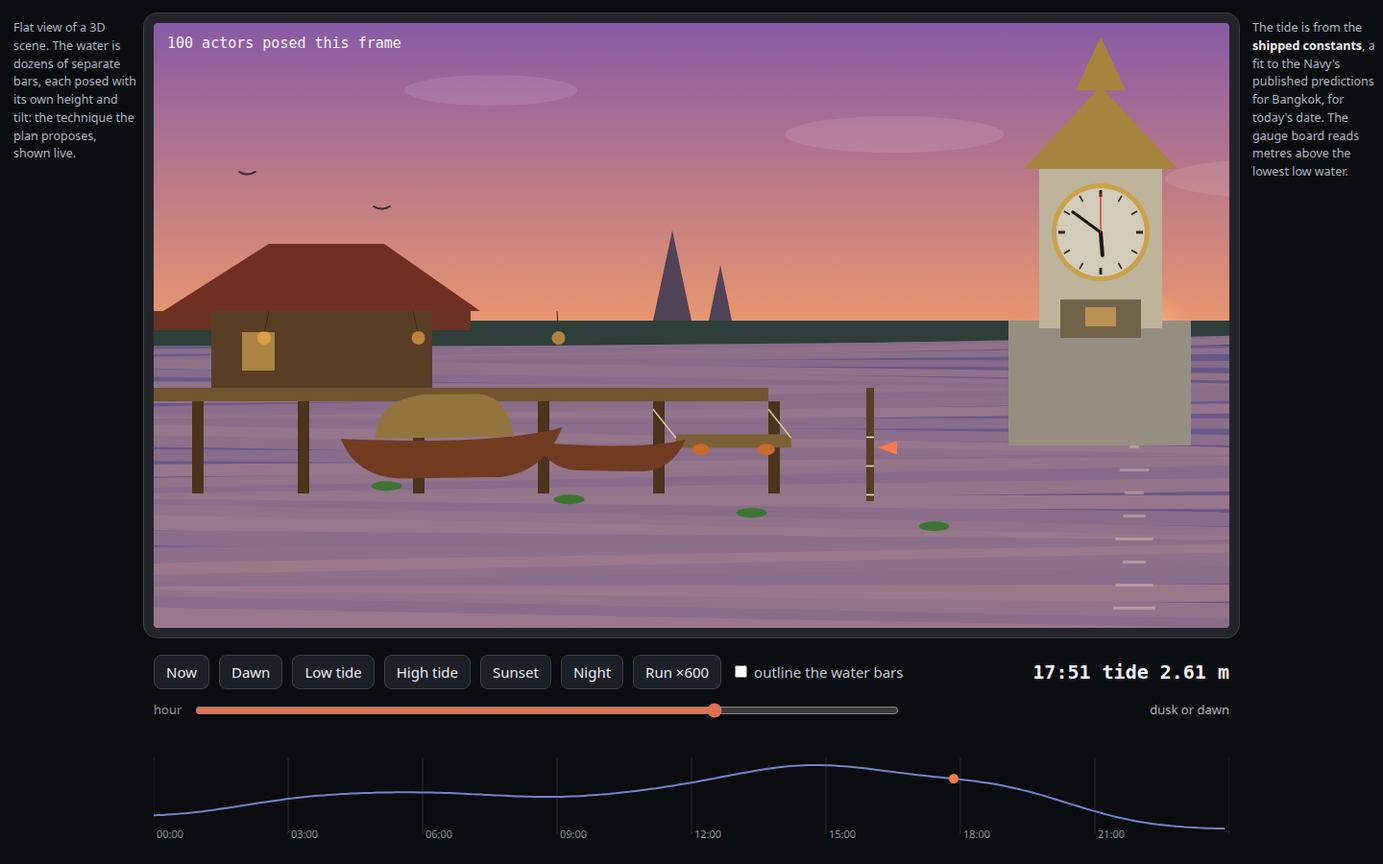
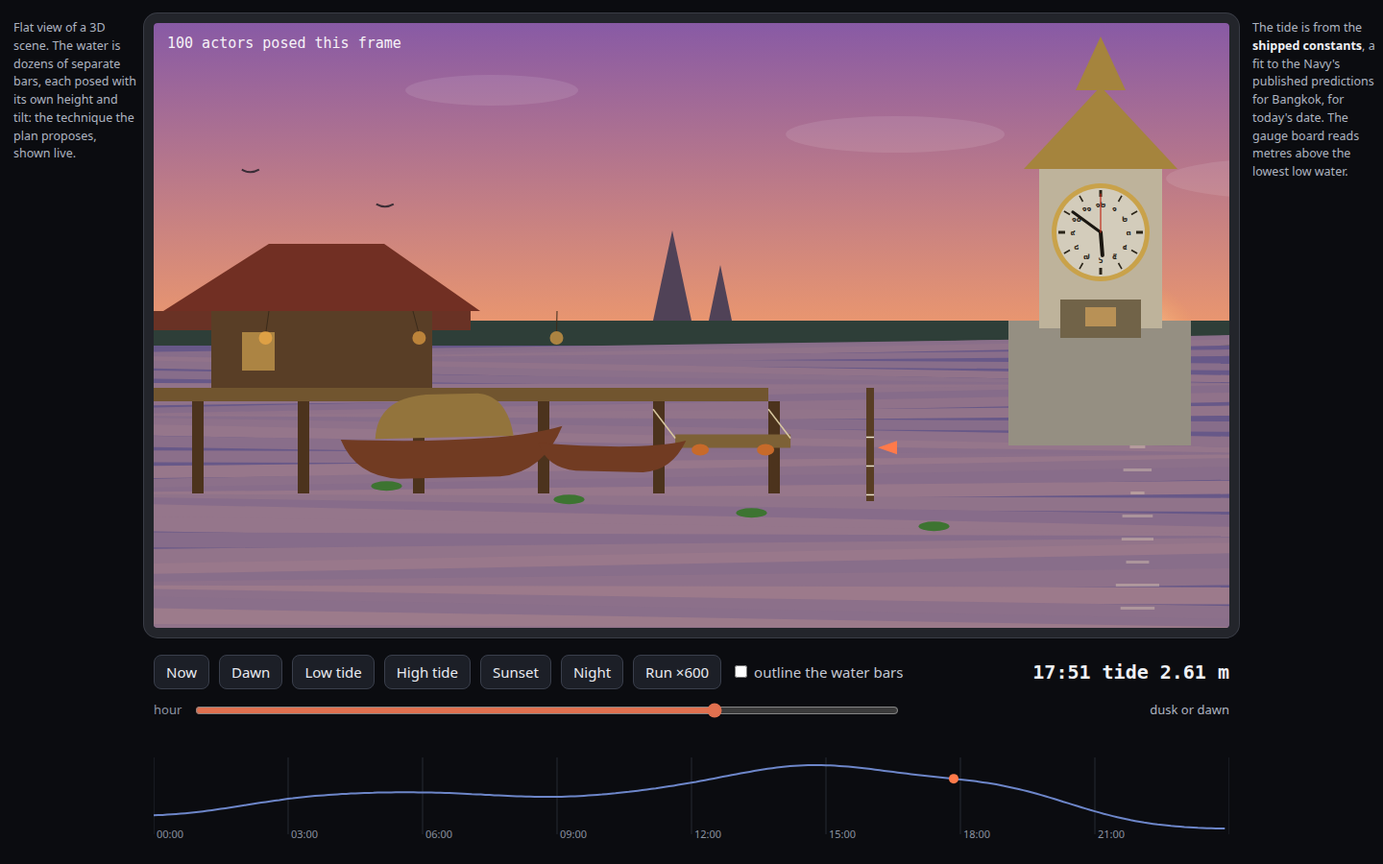
Tide Harbour plan approved: D1-D12 and Q1-Q8, with Thai dial numerals
Will: "accept all except answer to q2 is thai". Every recommendation stands except the
tower dial, which carries Thai numerals (D8). The harbour mockup now draws them and shows
the cost: at the harbour's scale the digits are small, so the plan lists two remedies in
order (a dial about 1.5x larger, or digits only at 12, 3, 6, 9 with ticks between) and keeps
Roman numerals as the fallback. Phase 2 first checks that a Thai font is in the Blender
container image. The questions section becomes a record of the answers.

Claude-Session: https://claude.ai/code/session_01YEenqQdpzaEWB9yHz5H9v3

diff --git a/docs/plans/2026-11-21-tide-harbour-clock/chooser.html b/docs/plans/2026-11-21-tide-harbour-clock/chooser.html
@@ -127,6 +127,8 @@ function renderScene(t, phase, o) {
   const cx = 986, cy = 218, R = 46;
   g += `<circle cx="${cx}" cy="${cy}" r="${R + 5}" fill="#c9a24a"/><circle cx="${cx}" cy="${cy}" r="${R}" fill="${mix('#4a463c', '#f6efdc', 1 - dark * .55)}"/>`; n += 2;
   for (let k = 0; k < 12; k++) { const a = k / 12 * TAU; g += `<line x1="${f1(cx + Math.sin(a) * (R - 9))}" y1="${f1(cy - Math.cos(a) * (R - 9))}" x2="${f1(cx + Math.sin(a) * (R - 2))}" y2="${f1(cy - Math.cos(a) * (R - 2))}" stroke="#2a2418" stroke-width="${k % 3 ? 1.6 : 3}"/>`; }
+  const THAI = ['๑๒', '๑', '๒', '๓', '๔', '๕', '๖', '๗', '๘', '๙', '๑๐', '๑๑'];
+  for (let k = 0; k < 12; k++) { const a = k / 12 * TAU, r = R - 17; g += `<text x="${f1(cx + Math.sin(a) * r)}" y="${f1(cy - Math.cos(a) * r)}" font-size="9" font-weight="700" text-anchor="middle" dominant-baseline="central" fill="#2a2418" font-family="Noto Sans Thai, Noto Serif Thai, sans-serif">${THAI[k]}</text>`; }
   const hh = (t % 12) / 12 * TAU, mm = ((t * 60) % 60) / 60 * TAU, ss = ((t * 3600) % 60) / 60 * TAU;
   const hand = (a, len, w, col) => `<line x1="${cx}" y1="${cy}" x2="${f1(cx + Math.sin(a) * len)}" y2="${f1(cy - Math.cos(a) * len)}" stroke="${col}" stroke-width="${w}" stroke-linecap="round"/>`;
   g += hand(hh, 24, 4, '#1a1610') + hand(mm, 36, 3, '#1a1610') + hand(ss, 40, 1.2, '#c02a1a'); n += 3;

diff --git a/docs/plans/2026-11-21-tide-harbour-clock/harbour.html b/docs/plans/2026-11-21-tide-harbour-clock/harbour.html
@@ -127,6 +127,8 @@ function renderScene(t, phase, o) {
   const cx = 986, cy = 218, R = 46;
   g += `<circle cx="${cx}" cy="${cy}" r="${R + 5}" fill="#c9a24a"/><circle cx="${cx}" cy="${cy}" r="${R}" fill="${mix('#4a463c', '#f6efdc', 1 - dark * .55)}"/>`; n += 2;
   for (let k = 0; k < 12; k++) { const a = k / 12 * TAU; g += `<line x1="${f1(cx + Math.sin(a) * (R - 9))}" y1="${f1(cy - Math.cos(a) * (R - 9))}" x2="${f1(cx + Math.sin(a) * (R - 2))}" y2="${f1(cy - Math.cos(a) * (R - 2))}" stroke="#2a2418" stroke-width="${k % 3 ? 1.6 : 3}"/>`; }
+  const THAI = ['๑๒', '๑', '๒', '๓', '๔', '๕', '๖', '๗', '๘', '๙', '๑๐', '๑๑'];
+  for (let k = 0; k < 12; k++) { const a = k / 12 * TAU, r = R - 17; g += `<text x="${f1(cx + Math.sin(a) * r)}" y="${f1(cy - Math.cos(a) * r)}" font-size="9" font-weight="700" text-anchor="middle" dominant-baseline="central" fill="#2a2418" font-family="Noto Sans Thai, Noto Serif Thai, sans-serif">${THAI[k]}</text>`; }
   const hh = (t % 12) / 12 * TAU, mm = ((t * 60) % 60) / 60 * TAU, ss = ((t * 3600) % 60) / 60 * TAU;
   const hand = (a, len, w, col) => `<line x1="${cx}" y1="${cy}" x2="${f1(cx + Math.sin(a) * len)}" y2="${f1(cy - Math.cos(a) * len)}" stroke="${col}" stroke-width="${w}" stroke-linecap="round"/>`;
   g += hand(hh, 24, 4, '#1a1610') + hand(mm, 36, 3, '#1a1610') + hand(ss, 40, 1.2, '#c02a1a'); n += 3;

diff --git a/docs/plans/2026-11-21-tide-harbour-clock/moments.html b/docs/plans/2026-11-21-tide-harbour-clock/moments.html
@@ -127,6 +127,8 @@ function renderScene(t, phase, o) {
   const cx = 986, cy = 218, R = 46;
   g += `<circle cx="${cx}" cy="${cy}" r="${R + 5}" fill="#c9a24a"/><circle cx="${cx}" cy="${cy}" r="${R}" fill="${mix('#4a463c', '#f6efdc', 1 - dark * .55)}"/>`; n += 2;
   for (let k = 0; k < 12; k++) { const a = k / 12 * TAU; g += `<line x1="${f1(cx + Math.sin(a) * (R - 9))}" y1="${f1(cy - Math.cos(a) * (R - 9))}" x2="${f1(cx + Math.sin(a) * (R - 2))}" y2="${f1(cy - Math.cos(a) * (R - 2))}" stroke="#2a2418" stroke-width="${k % 3 ? 1.6 : 3}"/>`; }
+  const THAI = ['๑๒', '๑', '๒', '๓', '๔', '๕', '๖', '๗', '๘', '๙', '๑๐', '๑๑'];
+  for (let k = 0; k < 12; k++) { const a = k / 12 * TAU, r = R - 17; g += `<text x="${f1(cx + Math.sin(a) * r)}" y="${f1(cy - Math.cos(a) * r)}" font-size="9" font-weight="700" text-anchor="middle" dominant-baseline="central" fill="#2a2418" font-family="Noto Sans Thai, Noto Serif Thai, sans-serif">${THAI[k]}</text>`; }
   const hh = (t % 12) / 12 * TAU, mm = ((t * 60) % 60) / 60 * TAU, ss = ((t * 3600) % 60) / 60 * TAU;
   const hand = (a, len, w, col) => `<line x1="${cx}" y1="${cy}" x2="${f1(cx + Math.sin(a) * len)}" y2="${f1(cy - Math.cos(a) * len)}" stroke="${col}" stroke-width="${w}" stroke-linecap="round"/>`;
   g += hand(hh, 24, 4, '#1a1610') + hand(mm, 36, 3, '#1a1610') + hand(ss, 40, 1.2, '#c02a1a'); n += 3;

diff --git a/docs/plans/2026-11-21-tide-harbour-clock/poster.html b/docs/plans/2026-11-21-tide-harbour-clock/poster.html
@@ -127,6 +127,8 @@ function renderScene(t, phase, o) {
   const cx = 986, cy = 218, R = 46;
   g += `<circle cx="${cx}" cy="${cy}" r="${R + 5}" fill="#c9a24a"/><circle cx="${cx}" cy="${cy}" r="${R}" fill="${mix('#4a463c', '#f6efdc', 1 - dark * .55)}"/>`; n += 2;
   for (let k = 0; k < 12; k++) { const a = k / 12 * TAU; g += `<line x1="${f1(cx + Math.sin(a) * (R - 9))}" y1="${f1(cy - Math.cos(a) * (R - 9))}" x2="${f1(cx + Math.sin(a) * (R - 2))}" y2="${f1(cy - Math.cos(a) * (R - 2))}" stroke="#2a2418" stroke-width="${k % 3 ? 1.6 : 3}"/>`; }
+  const THAI = ['๑๒', '๑', '๒', '๓', '๔', '๕', '๖', '๗', '๘', '๙', '๑๐', '๑๑'];
+  for (let k = 0; k < 12; k++) { const a = k / 12 * TAU, r = R - 17; g += `<text x="${f1(cx + Math.sin(a) * r)}" y="${f1(cy - Math.cos(a) * r)}" font-size="9" font-weight="700" text-anchor="middle" dominant-baseline="central" fill="#2a2418" font-family="Noto Sans Thai, Noto Serif Thai, sans-serif">${THAI[k]}</text>`; }
   const hh = (t % 12) / 12 * TAU, mm = ((t * 60) % 60) / 60 * TAU, ss = ((t * 3600) % 60) / 60 * TAU;
   const hand = (a, len, w, col) => `<line x1="${cx}" y1="${cy}" x2="${f1(cx + Math.sin(a) * len)}" y2="${f1(cy - Math.cos(a) * len)}" stroke="${col}" stroke-width="${w}" stroke-linecap="round"/>`;
   g += hand(hh, 24, 4, '#1a1610') + hand(mm, 36, 3, '#1a1610') + hand(ss, 40, 1.2, '#c02a1a'); n += 3;

diff --git a/docs/plans/2026-11-21-tide-harbour-clock/build_mockups.py b/docs/plans/2026-11-21-tide-harbour-clock/build_mockups.py
@@ -155,6 +155,8 @@ function renderScene(t, phase, o) {
   const cx = 986, cy = 218, R = 46;
   g += `<circle cx="${cx}" cy="${cy}" r="${R + 5}" fill="#c9a24a"/><circle cx="${cx}" cy="${cy}" r="${R}" fill="${mix('#4a463c', '#f6efdc', 1 - dark * .55)}"/>`; n += 2;
   for (let k = 0; k < 12; k++) { const a = k / 12 * TAU; g += `<line x1="${f1(cx + Math.sin(a) * (R - 9))}" y1="${f1(cy - Math.cos(a) * (R - 9))}" x2="${f1(cx + Math.sin(a) * (R - 2))}" y2="${f1(cy - Math.cos(a) * (R - 2))}" stroke="#2a2418" stroke-width="${k % 3 ? 1.6 : 3}"/>`; }
+  const THAI = ['๑๒', '๑', '๒', '๓', '๔', '๕', '๖', '๗', '๘', '๙', '๑๐', '๑๑'];
+  for (let k = 0; k < 12; k++) { const a = k / 12 * TAU, r = R - 17; g += `<text x="${f1(cx + Math.sin(a) * r)}" y="${f1(cy - Math.cos(a) * r)}" font-size="9" font-weight="700" text-anchor="middle" dominant-baseline="central" fill="#2a2418" font-family="Noto Sans Thai, Noto Serif Thai, sans-serif">${THAI[k]}</text>`; }
   const hh = (t % 12) / 12 * TAU, mm = ((t * 60) % 60) / 60 * TAU, ss = ((t * 3600) % 60) / 60 * TAU;
   const hand = (a, len, w, col) => `<line x1="${cx}" y1="${cy}" x2="${f1(cx + Math.sin(a) * len)}" y2="${f1(cy - Math.cos(a) * len)}" stroke="${col}" stroke-width="${w}" stroke-linecap="round"/>`;
   g += hand(hh, 24, 4, '#1a1610') + hand(mm, 36, 3, '#1a1610') + hand(ss, 40, 1.2, '#c02a1a'); n += 3;

diff --git a/docs/plans/2026-11-21-tide-harbour-clock.md b/docs/plans/2026-11-21-tide-harbour-clock.md
@@ -1,6 +1,6 @@
 # Tide Harbour: the second 3D clock, and the clocks bundle that holds it
 
-**Status: plan for review, 2026‑11‑21.** The level and the bundle are not built. Done so far: the one engine addition, E1 (a date mailbox), is approved and built ([Phase 1 record](#phase-1-record-e1-built)); the Bangkok tide is fitted to the Navy's published predictions and validated on an unseen year ([Phase 0 record](#phase-0-record-the-tide), [research document](../reference/chao-phraya-tide-research.md)). Next: the A3 poster ([D11](#decisions), Phase P), which needs only that research, and the Phase 0 spikes on cast1, which need your answers to [the questions below](#questions-for-will). **Runtime control of lights is deliberately not part of this plan** (Will, 2026‑11‑21: "more likely the task is to add control of lights from runtime. today, put it on TODO, and don't use as part of the screensaver implementation for now"); it is its own TODO item.
+**Status: plan for review, 2026‑11‑21.** The level and the bundle are not built. Done so far: the one engine addition, E1 (a date mailbox), is approved and built ([Phase 1 record](#phase-1-record-e1-built)); the Bangkok tide is fitted to the Navy's published predictions and validated on an unseen year ([Phase 0 record](#phase-0-record-the-tide), [research document](../reference/chao-phraya-tide-research.md)). **Approved: D1 to D12 and the answers to Q1 to Q8 at my recommendations, except Q2, which Will answered Thai: the dial uses Thai numerals** (Will, 2026‑11‑21: "accept all except answer to q2 is thai"). Next: the A3 poster (Phase P), and the Phase 0 spikes on cast1. **Runtime control of lights is deliberately not part of this plan** (Will, 2026‑11‑21: "more likely the task is to add control of lights from runtime. today, put it on TODO, and don't use as part of the screensaver implementation for now"); it is its own TODO item.
 
 ## Context
 
@@ -46,29 +46,28 @@ Recommendations are in the third column. Nothing is decided until Will answers.
 | D5 | How the day turns to night | **No engine change.** A tall gradient mesh for the sky that slides past the camera; glow actors for lamps and windows, moved in front of the dark glass at dusk; and the water, boats and buildings drawn in a few keyed looks (day, dusk, night) cross-faded by moving the lit set forward. Phase 0 shows how well this holds and records the gaps | Runtime light control (a script-writable light colour): would dim everything with one write, but it is an engine feature in its own right and is **deferred to a TODO item, not used here**. Bake one fixed sunset: cheap, but then the look says nothing about the time |
 | D6 | The tide itself | **Settled by the research: fitted harmonic constants for Bangkok**, summed in Forth from the date. 64 constituents, median error 4 to 5 cm on an unseen year ([tide_constants.json](../../wflevels/tide_harbour/tide_constants.json)). The department publishes a new table each year, so `task tide-refit` repeats the fit (the years and the file addresses in `tide_fit/` are edited by hand first); the scene needs no nodal correction for the next year (3.7 cm against 3.3 cm) | A synthetic curve (no longer needed); a third-party table (the department's own tables are public and primary) |
 | D7 | Frame-rate gate | **At least 30 FPS** on cast1, Release, median over 120 s, the same gate Minute Machine used. Actor budget **150 rigid actors**, measured in Phase 0 on boxes first | A higher gate: the water bars are the likely cost, so measure first |
-| D8 | The dial | **Roman numerals**, as in the concept art: legible from across a room. Thai numerals ๑–๑๒ are a later variant | Thai numerals now: more local, harder to read at a glance |
+| D8 | The dial | **Thai numerals ๑ to ๑๒** (Will's answer to Q2), as a Bangkok tower would carry. The cost is legibility across a room, so the digits are drawn large and heavy, and the tower's dial is checked at TV distance in Phase 2. The [harbour mockup](2026-11-21-tide-harbour-clock/harbour.html) shows the problem at its scale: all twelve are small. Two remedies, in order: draw the dial about 1.5 times larger than in the concept art, or carry digits only at ๑๒, ๓, ๖ and ๙ with plain ticks between; if both fail, the concept art's Roman numerals are the fallback | Roman numerals, as in the concept art: more legible, less local |
 | D9 | Art style | **Low-poly, flat colour, a few small textures** (roof tile, wood, dial face), built in Blender in the container. Reads as the concept art at a distance and fits the VRAM page | Painterly textures like the concept art: much heavier on the 2048 × 2048 page |
 | D10 | Burn-in | **The camera drifts slowly all the time**, as Minute Machine's does; the water, sky and clouds always move, so no pixel sits still | A static camera: the tower dial would burn in |
 | D11 | An A3 poster about the tides and the calculation | **Yes, portrait A3 (297 × 420 mm), on the repository's poster pipeline** ([seahorse poster](../reference/seahorse-biomechanics-poster/README.md)): the [research document](../reference/chao-phraya-tide-research.md) first, then `make_poster.py` and `export_poster.py` (PDF, 300 DPI PNG, `layout-review.json`) and a pytest guard. Every claim wears a chip (**verified**, **other source**, **ours (measured)**); the build refuses an unconfirmed claim. See [the poster](#the-poster) | A figure in the plan only: no printable object, and the research would stay buried here |
 | D12 | Sun and moon | **No tables, and no claim about the moon.** The sun's rise and set come from a closed-form formula (the sun's declination and the equation of time, for Bangkok's latitude and longitude and the date), a few lines of Forth using the new trig words, and checked in Phase 2 against five published sunrise and sunset times. The moon is only a disc on an arc: its phase and position are **not** claimed, in the scene or on the poster. Will asked (2026‑11‑21): "should we??" about researching sunrise, sunset and moon tables; the answer was no | Tables for every date (a lot of data for a look nobody can check); a fixed 06:00 and 18:00 (seasonal drift is a few tens of minutes, which would pass, but the formula is as cheap and is right); the real moon (phase and position are a project of their own, and the plan's moon-phase stretch is already out of scope) |
 
-## Questions for Will
+## Questions for Will: answered
 
-Nothing is decided until Will answers. **No engine permission is pending:** E1 is approved and built, and light control is deferred. Everything below is a choice, with my recommendation first. "Accept all" is a complete answer.
+**Answered 2026‑11‑21** (Will, 2026‑11‑21: "accept all except answer to q2 is thai"). Every recommendation was accepted except Q2. No engine permission is pending: E1 is approved and built, and light control is deferred.
 
-| # | Question | Recommendation | What it blocks |
-|---|---|---|---|
-| Q1 | **Accept D1 to D12 as written?** Or name the ones to change. | Accept all. | Phase 0 spikes, then everything |
-| Q2 | **Dial numerals** (D8): Roman, as in the concept art, or Thai numerals ๑ to ๑๒ for a Bangkok scene? | Roman: legible across a room. Thai numerals as a later variant. | The tower dial's texture, Phase 2 |
-| Q3 | **Art style** (D9): low-poly flat colour with a few small textures, or painterly textures like the concept art? | Low-poly: reads as the concept art at a distance and fits the 2048 × 2048 texture page. The painterly version is much heavier. | The Blender build, Phase 2 |
-| Q4 | **Retire the Minute Machine app** (D2): remove the `minutemachine` flavor and uninstall its package from cast1, now that the `clocks` app holds it as level 0? | Yes, in the same change. | Phase 3 |
-| Q5 | **Poster language** (D11): English only, or also a Thai edition? | English only for now; a Thai edition is its own piece of work. | The poster's text |
-| Q6 | **How big is the tide on screen?** The real range is about 2.8 m between extremes of the year, and a typical day swings about 1.65 m. Show it true to scale against the pier and the gauge board, or exaggerate it so it is easy to see from a sofa? | True to scale: the gauge board then reads real numbers, and a 1.65 m swing is already visible. | The water, boats and ropes, Phase 2 |
-| Q7 | **A TV outside Thailand.** Show a Thai day at the viewer's own clock time (self-consistent, but not the real tide in Bangkok at that instant), or the real tide in Bangkok now with a dial that may disagree with the sky? | The first: device time everywhere, as if Thai. You are in Bangkok, so it makes no difference today. | Phase 2 |
-| Q8 | **Attribution for the tide.** The constants are our fit to the Navy's published predictions; no terms of use were found on its pages, and the poster credits the department. Is that enough, or should the department be asked? | Enough, with credit. | Printing the poster |
+| # | Question | Answer |
+|---|---|---|
+| Q1 | Accept D1 to D12 as written? | ~~Accept all.~~ **Accepted**, with D8 changed by Q2. |
+| Q2 | Dial numerals (D8)? | **Thai numerals ๑ to ๑๒** (not the recommended Roman). |
+| Q3 | Art style (D9)? | ~~Low-poly flat colour with a few small textures.~~ **Accepted.** |
+| Q4 | Retire the Minute Machine app and uninstall its package from cast1? | ~~Yes, in the same change.~~ **Accepted.** |
+| Q5 | Poster language? | ~~English only for now.~~ **Accepted.** |
+| Q6 | Tide size on screen? | ~~True to scale against the pier and the gauge board.~~ **Accepted.** |
+| Q7 | A TV outside Thailand? | ~~Device time everywhere, as if Thai.~~ **Accepted.** |
+| Q8 | Attribution for the tide? | ~~Credit the department; no further step.~~ **Accepted.** |
 
-Optional, not blocking: which of the other 48 ideas comes after Tide Harbour. The engine's level menu scrolls (six rows at a time), so the bundle can hold many.
-
+Optional, not blocking: which of the other 48 ideas comes after Tide Harbour.
 
 ## Approach
 
@@ -109,7 +108,7 @@ The water is a stack of 36 long thin boxes, near to far, slightly overlapping. E
 
 ### The clock tower
 
-The dial is the one thing that tells the time. The hour, minute and second hands are three actors turned by the clock, the second hand sweeping. Under the dial, the arch glows at dusk. The tower is the tallest thing in the frame and is lit even at night, so the dial stays readable ([moments](#moments)).
+The dial is the one thing that tells the time, and carries **Thai numerals ๑ to ๑๒** (D8). The hour, minute and second hands are three actors turned by the clock, the second hand sweeping. Under the dial, the arch glows at dusk. The tower is the tallest thing in the frame and is lit even at night, so the dial stays readable ([moments](#moments)).
 
 ### Moments
 
@@ -205,7 +204,7 @@ stateDiagram-v2
 |---|---|---|---|
 | **0 Spikes and research** | (a) 36 plain bars plus 100 boxes on a placeholder level, on cast1: FPS and banding. (b) The look of the day with no light control: a sliding sky, glow actors and keyed looks, judged on the TV at the six moments. ~~(c) The tide: find the Hydrographic Department's constants for a Chao Phraya station, or record that none are public; check the arithmetic against their table.~~ Done 2026‑11‑21: no public constants, but the department's published highs and lows were fitted and validated; [record below](#phase-0-record-the-tide). ~~(d) Sunrise and sunset by day of year against NOAA~~ Dropped by D12: a formula, checked in Phase 2, in place of research | T4 | Answers D5, D7 and the water risk; the plan is revised with the results |
 | ~~**1 Engine E1**~~ | ~~Mailboxes, override, tests~~ Done 2026‑11‑21; [record below](#phase-1-record-e1-built) | T4 | ~~`task test-wall-clock` passes with a date; Minute Machine unaffected~~ |
-| **2 Tide Harbour level** | `clock_common` hoisted; `wflevels/tide_harbour/` with `timeline.py`, `channels.py`, `parts.py`, Blender build, `-standalone.iff`; director VM test; engine comparison | T3 | Director matches the model in the VM and the engine, as Minute Machine's did |
+| **2 Tide Harbour level** | `clock_common` hoisted; `wflevels/tide_harbour/` with `timeline.py`, `channels.py`, `parts.py`, Blender build (the dial's Thai numerals are drawn from a Thai font inside the Blender container, so Phase 2 first checks that a Thai font is in the image and adds one to the Dockerfile if not), `-standalone.iff`; director VM test; engine comparison | T3 | Director matches the model in the VM and the engine, as Minute Machine's did |
 | **3 Bundle and chooser** | Manifest, pack script, `Clock*` classes, host change, flavor `clocks`, `minutemachine` flavor removed | T3 | Desktop and cast1: no argument shows the menu; a named clock skips it; the Dream never shows it |
 | **4 cast1** | Install, FPS gate, 10-minute Dream run, six moments checked on the TV, tide gauge checked against the model | T3 | D7 gate, and the moments match the mockups |
 | **5 Docs** | `android/screensaver/README.md`, `docs/level-building.md` note, `docs/forth-math-words.md` unaffected | T2 | `task md` renders |

diff --git a/TODO.md b/TODO.md
@@ -112,7 +112,7 @@
 - [T4] **Sea Stars: an eleventh tank of Indo-Pacific sea stars, steered as a blue *Linckia*.** (Will, 2026‑11‑10: "starfish"; Indo-Pacific display, the player is a sea star, several species.) Six species and 10 animals on an open sand flat; leader-arm steering, climbing on all four glass walls (the front glass shows the underside), a brittle star that bolts and sand-sifting stars that bury. Reuses the reef shell, `DFRM` v2 (one curve per arm) and S2 caustics; no engine change planned. Has a screensaver variant (`aquarium_sea_stars_screensaver`, autopilot) and level settings (`SeaStarsSettings`: counts per species, speed, glass climbing, caustics, seed). Settings are a `SeaStarsSettings` OAS object, not RPRP (D11, Will: "option 1"), so it comes after runtime object editing Phases 0–2. Waiting on Will for D1–D10. Rank T4: the Phase 1 crawl-controller spike decides whether an engine change is needed; the later phases are T2–T3. **2026‑11‑20: assets approved; the desktop engine check passes** (planes, glass climb, corners, brittle escape, sand burial; `scripts/check-sea-stars.py`). Release APKs build (game `03cc5d62…`, Dream `97fac076…`). **cast1, 2026‑11‑20:** selector and Back pass, wide idle 23.99 FPS (gate ≥ 20), Dream shows Sea Stars after the Dream-host fix. **Settings (D11) Phases 0–5 pushed; step 10's empty-tank gate passes (p50 33.37 ms ×3).** A recorded 10-minute Dream found the autopilot parked in a corner for 9 minutes; fixed in `6c83fbb1` and re-recorded on cast1 (596 s, 8 glass climbs, baseline restored); macOS and iOS Codemagic builds green. Phase 6 default population passes at 20.35 FPS steady (it was 18.5 until parked residents stopped being drawn, `4d001445`). **Phase 6 maximum population FAILS on cast1: 11.8 FPS at 17 residents (about 1 FPS and about 3 ms per resident; any resident beyond the default misses 20 FPS).** **Decision (2026‑11‑20, mine, reversible): keep the maximums and apply the 20 FPS gate to the default population only** (the maximum is for faster devices; cast2 holds 28.75 FPS at default). The S3 fallback (lower the maximums to about the default) is left undone; making residents cheaper is the follow-up below. [settings plan](docs/plans/2026-11-20-sea-stars-settings.md), [acceptance](docs/diagnostics/sea-stars-cast1-acceptance-2026-11-20/README.md). [plan](docs/plans/2026-11-10-starfish-tank.md)
 - [T4] **Sea Stars: make a resident cheaper, so the maximum population holds 20 FPS on cast1.** Measured 2026‑11‑20: about 1 FPS and about 3 ms per resident on the Chromecast HD (about 1.2 ms director pose script, about 2 ms render); 17 residents run at 11.8 FPS, and any resident beyond the default misses the gate. Done 2026‑11‑20: each resident now re-poses one frame in three (default 20.35 → 22.2 FPS, maximum 11.8 → 13.1). Left: the render cost, about 2 ms a resident, the larger share: lighter meshes or fewer faces for the spiky chips and the Fromia, or fewer draws per resident. Re-measure with the ladder script pattern in [`phase6-population-ladder.json`](docs/diagnostics/sea-stars-cast1-acceptance-2026-11-20/phase6-population-ladder.json); the ladder's fifth step (sand) needs the form to open again before Back. [acceptance](docs/diagnostics/sea-stars-cast1-acceptance-2026-11-20/README.md)
 - [wip T4] **Minute Machine: a sixty-second chain reaction that drops the minute flap** (Will, 2026‑11‑21: "write plan for 17. Sixty-second chain reaction"). A fourth Dream: rail, dominoes, seesaw, sand and bucket, five clicks, then the split-flap minute card falls; every pose is computed from the clock, with no simulation. **Approved 2026‑11‑21** ("D1-10: accept recommendations"; "implement / deploy / commit / push"); the time-of-day mailboxes were approved first. Phases 1 to 5 built and pushed (mailboxes, `sin-rev`, timeline, level, director, Dream flavor; every check passes); Phase 6, the cast1 run, is in progress. Tier T4: the spike decides whether the design stands, and it adds engine mailboxes. See [plan](docs/plans/2026-11-21-sixty-second-chain-reaction.md).
-- [T4] **Tide Harbour: the second 3D clock** (Will, 2026‑11‑21: "turn Tide harbour entry into the next screensaver in the 3d clock series"). A Bangkok stilt-house harbour whose river, boats, sky and clock-tower dial are a function of the date and time; all motion is rigid actors posed from the clock ("we can also move actors in 3d space"). **Plan for review**, with Phase 0 spikes first (water banding, look of the day, real tide constants). Engine change E1 (a date mailbox) is **approved and built** (Will, 2026‑11‑21: "approval to add date to engine"; Phase 1 record in the plan). Phase 0(c) done: the Bangkok tide fitted to the Navy's published tables, 4 to 5 cm median error on an unseen year ([research](docs/reference/chao-phraya-tide-research.md)); an A3 tide poster is added to the plan (D11). Next: the Phase 0 spikes (water banding, look of the day, actor budget). See [plan](docs/plans/2026-11-21-tide-harbour-clock.md). <!-- rank: T4, design and implementation; the look-of-the-day and tide-data questions are open -->
+- [T4] **Tide Harbour: the second 3D clock** (Will, 2026‑11‑21: "turn Tide harbour entry into the next screensaver in the 3d clock series"). A Bangkok stilt-house harbour whose river, boats, sky and clock-tower dial are a function of the date and time; all motion is rigid actors posed from the clock ("we can also move actors in 3d space"). **Plan approved 2026‑11‑21** (D1 to D12 and Q1 to Q8, with Thai dial numerals: "accept all except answer to q2 is thai"), with Phase 0 spikes first (water banding, look of the day, real tide constants). Engine change E1 (a date mailbox) is **approved and built** (Will, 2026‑11‑21: "approval to add date to engine"; Phase 1 record in the plan). Phase 0(c) done: the Bangkok tide fitted to the Navy's published tables, 4 to 5 cm median error on an unseen year ([research](docs/reference/chao-phraya-tide-research.md)); an A3 tide poster is added to the plan (D11). Next: the Phase 0 spikes (water banding, look of the day, actor budget). See [plan](docs/plans/2026-11-21-tide-harbour-clock.md). <!-- rank: T4, design and implementation; the look-of-the-day and tide-data questions are open -->
 - [T4] **Runtime control of lights** (Will, 2026‑11‑21: "more likely the task is to add control of lights from runtime. today, put it on TODO, and don't use as part of the screensaver implementation for now"). A `Light` actor reads its red, green and blue fields once, when it is built (`wfsource/source/game/light.cc:51`), and the clear colour is fixed (`wfsource/source/gfx/gl/display.cc`), so no script can dim a scene for dusk. Add script-writable light colour, and decide whether the clear colour joins it. Needs a plan (mailboxes or a Forth word, per-frame read, tests, Android and desktop) and Will's go-ahead; **not used by the Tide Harbour screensaver**, which works without it. See [Tide Harbour plan](docs/plans/2026-11-21-tide-harbour-clock.md#decisions) D5. <!-- rank: T4, an engine feature that touches the render path -->
 - [T3] **WF Clocks bundle and chooser** (Will, 2026‑11‑21: "bundle them all together into a single cd.iff (i suppose with a menu chooser like the aquarium)"). One `clocks` flavor, one `cd.iff`, the engine's level menu as the chooser, and `--es clock <id>` or a saved choice to skip it; Minute Machine becomes level 0. See [plan](docs/plans/2026-11-21-tide-harbour-clock.md#the-bundle-and-the-chooser). <!-- rank: T3, a settled mechanism copied from the Aquarium -->
 - [T3] **Bangkok tide A3 poster** (Will, 2026‑11‑21: "update plan: make an a3 poster about the tides and calculations/etc"; "build poster"). Portrait A3 on the repository's poster pipeline: research first (done, [research](docs/reference/chao-phraya-tide-research.md)), then `make_poster.py`, `export_poster.py`, a pytest guard, a chip on every claim, nothing unconfirmed printed. Layout mocked up; not yet built. See [plan](docs/plans/2026-11-21-tide-harbour-clock.md#the-poster). <!-- rank: T3, a settled pipeline copied from the seahorse poster -->
